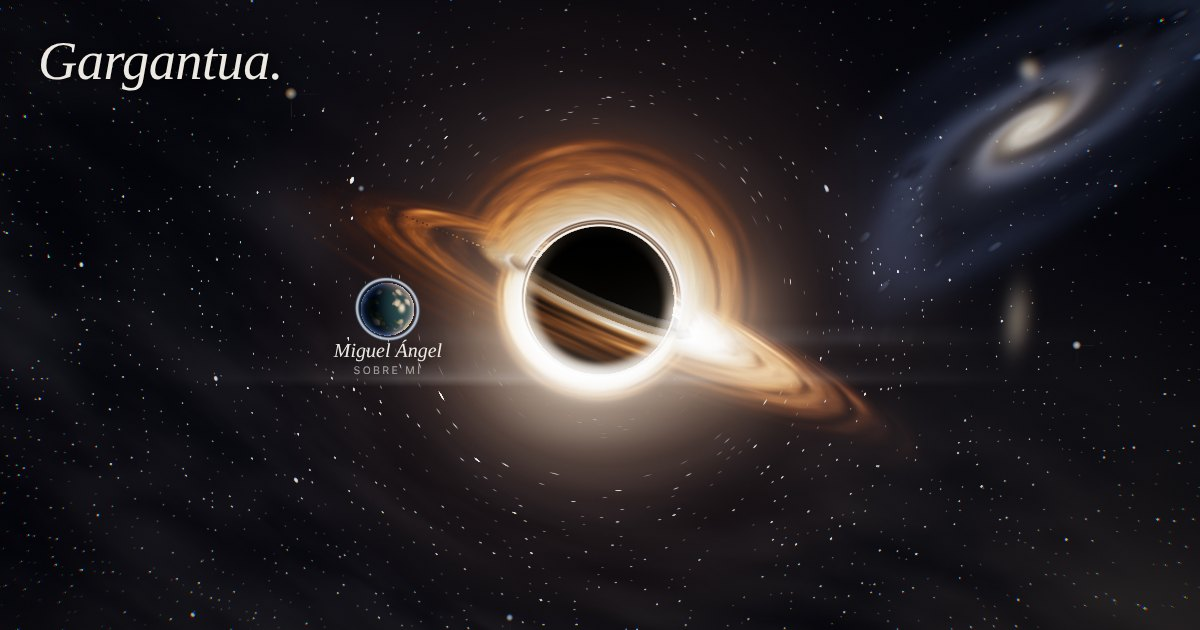
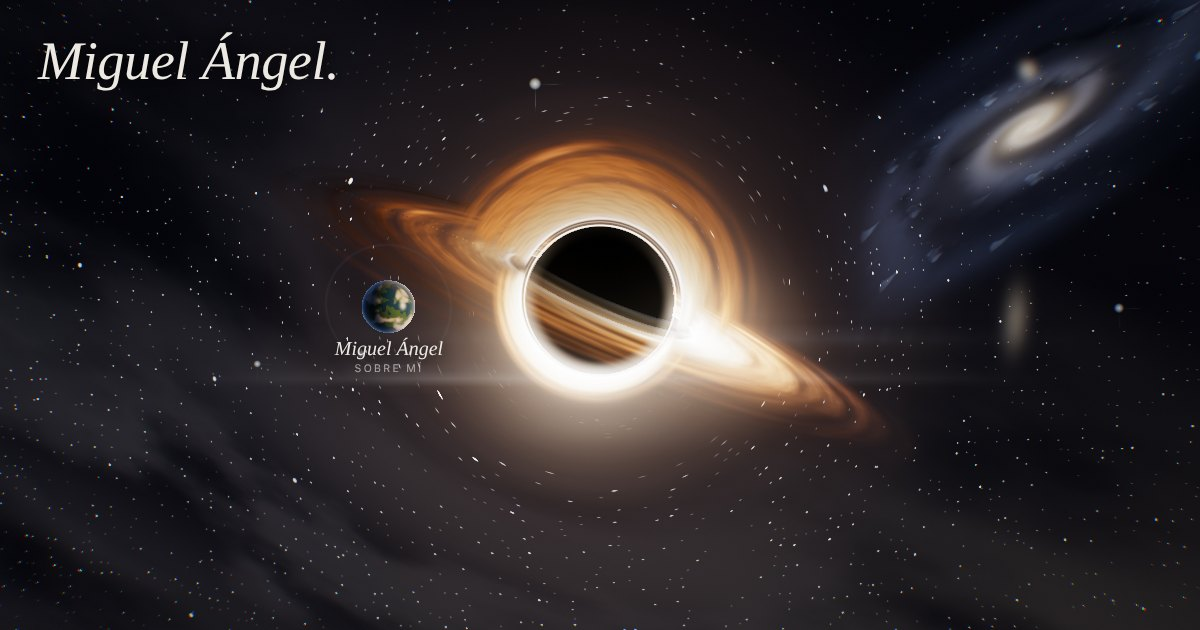
Gargantua: sin la descripción, el nombre en una línea e imagen para compartir con el nombre

diff --git a/gargantua/index.html b/gargantua/index.html
@@ -19,7 +19,7 @@
     <link rel="preconnect" href="https://fonts.googleapis.com">
     <link rel="preconnect" href="https://fonts.gstatic.com" crossorigin>
     <link href="https://fonts.googleapis.com/css2?family=Fraunces:ital,opsz,wght@0,9..144,400;1,9..144,400&family=Inter:wght@400;500&display=swap" rel="stylesheet">
-    <link rel="stylesheet" href="estilo.css?v=7">
+    <link rel="stylesheet" href="estilo.css?v=8">
     <script type="importmap">
         {
             "imports": {
@@ -33,7 +33,6 @@
     <header class="cabecera">
         <p class="etiqueta">Portfolio</p>
         <h1>Miguel Ángel.</h1>
-        <p class="texto">Un agujero negro en la oscuridad y, delante, los planetas de mi portfolio. Toca uno para entrar.</p>
         <a class="volver" href="../">Volver al portfolio</a>
     </header>
 

diff --git a/gargantua/estilo.css b/gargantua/estilo.css
@@ -84,6 +84,7 @@ canvas {
     font-weight: 400;
     font-size: 3.4rem;
     line-height: 1;
+    white-space: nowrap;
     letter-spacing: -0.01em;
 }
 
